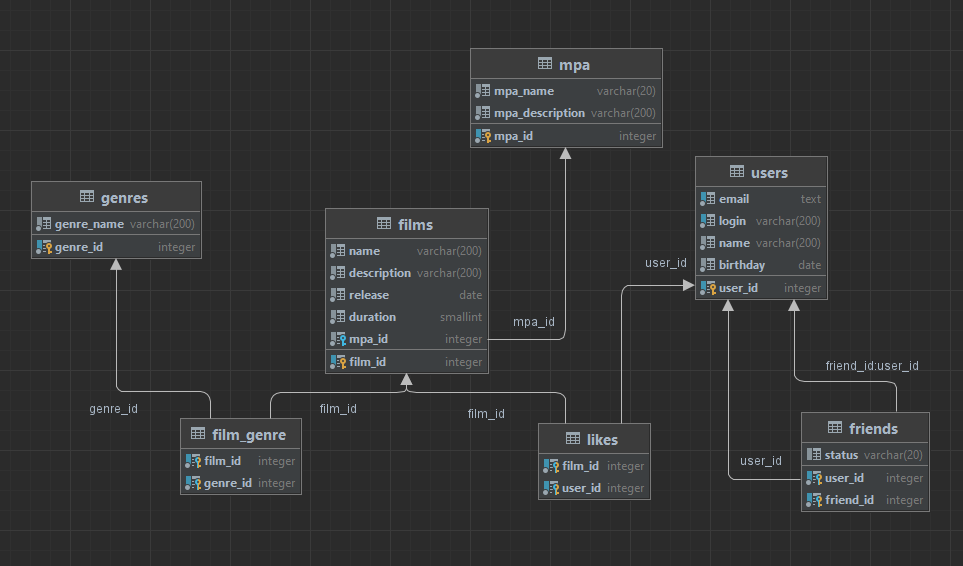
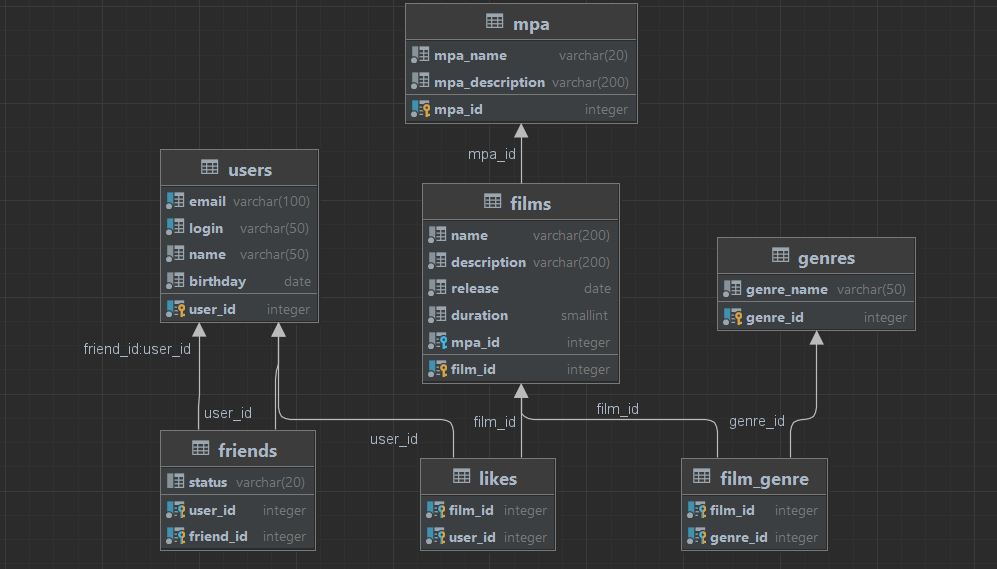
fix: изменение типов полей 3.02

diff --git a/README.md b/README.md
@@ -1,7 +1,7 @@
 <h1 align="center">Filmorate</h1>
 <picture>
     <img src="База данных filmorate.png" alt="UML диаграмма" title="UML диаграмма"
-    style="display: block; margin: 0 auto; max-width: 400px;object-position: center;">
+    style="display: block; margin: 0 auto; object-position: center;">
 </picture>
 
 | Номер | Таблица    | Состав таблицы             |
